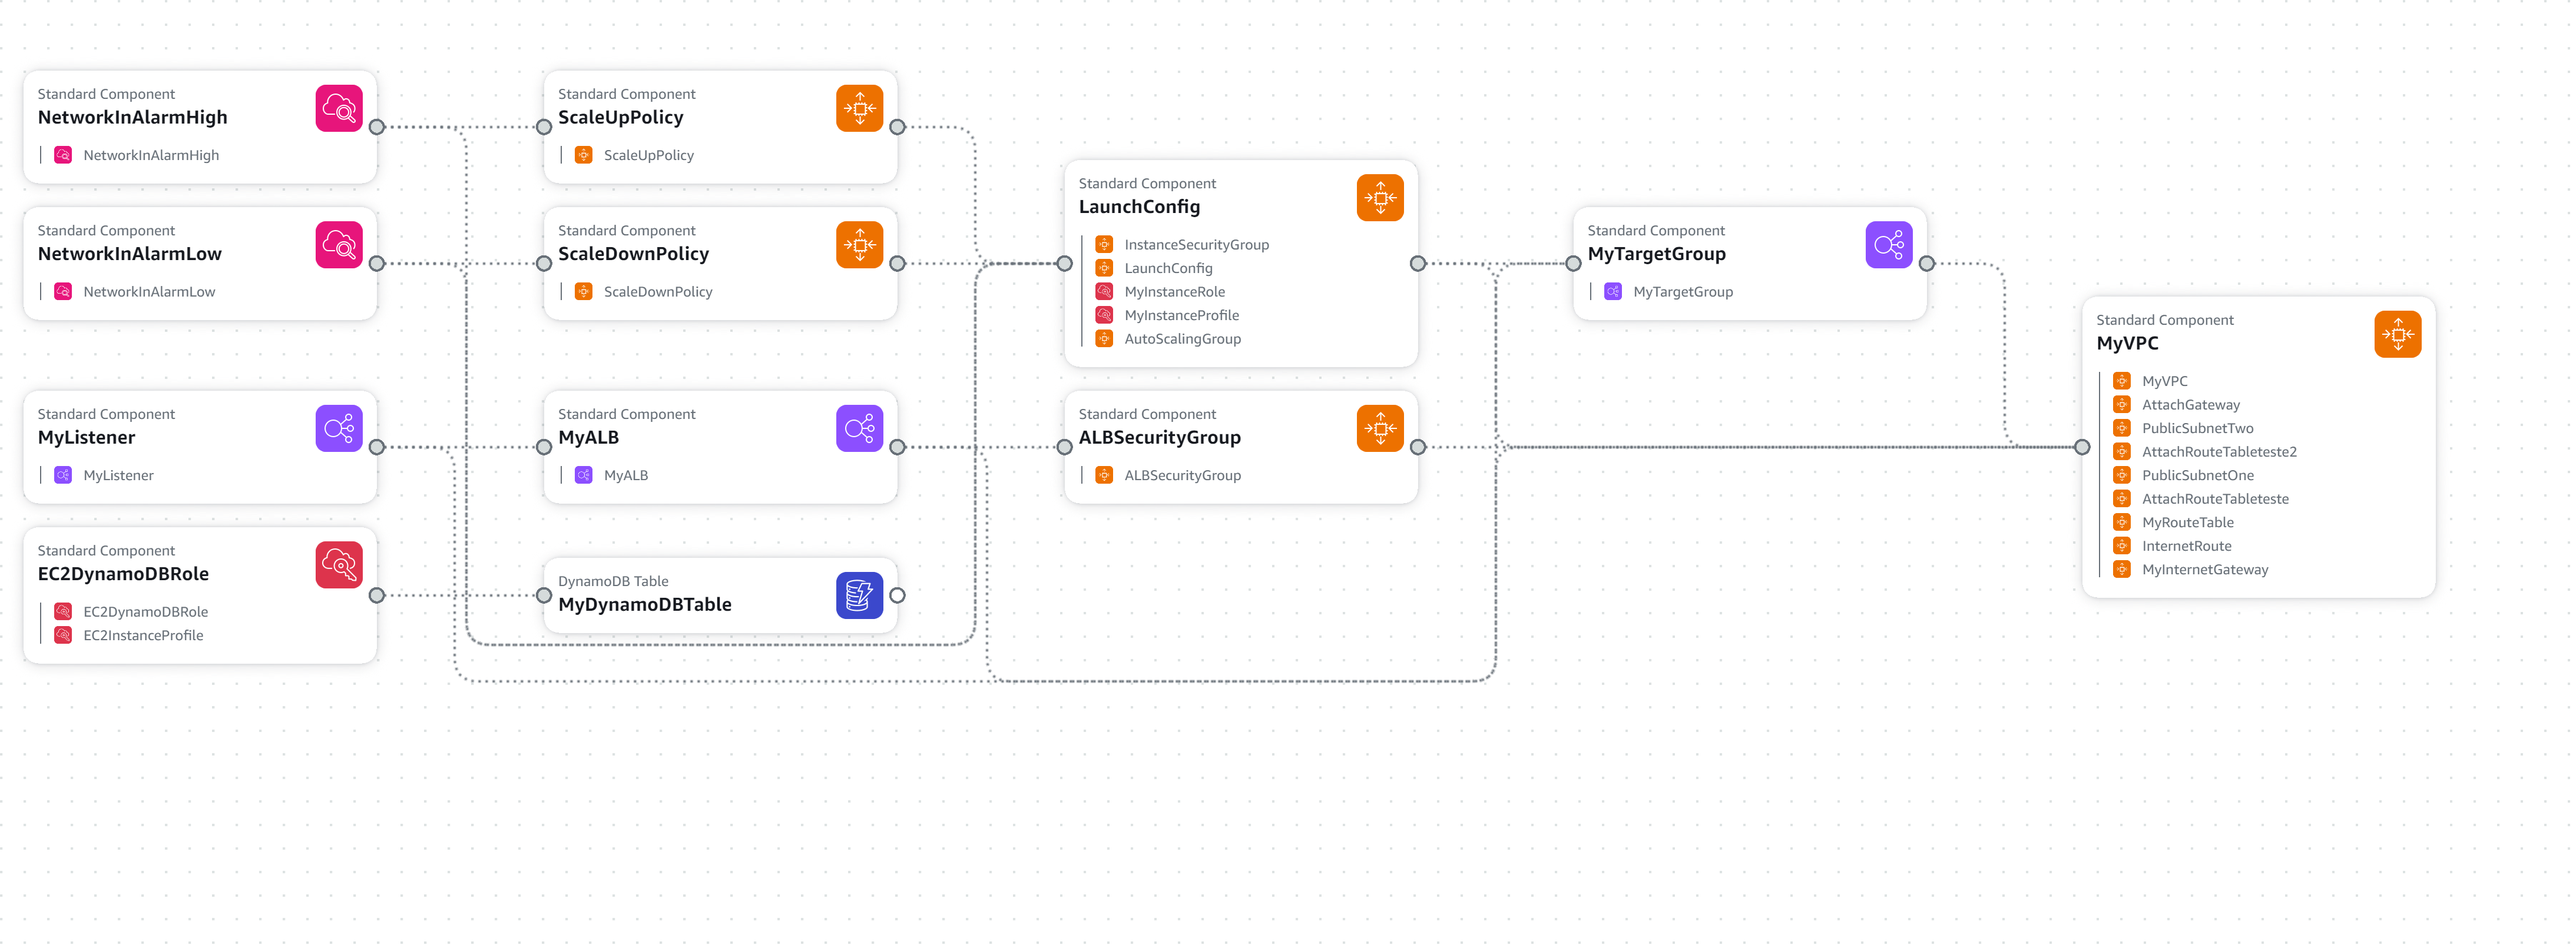
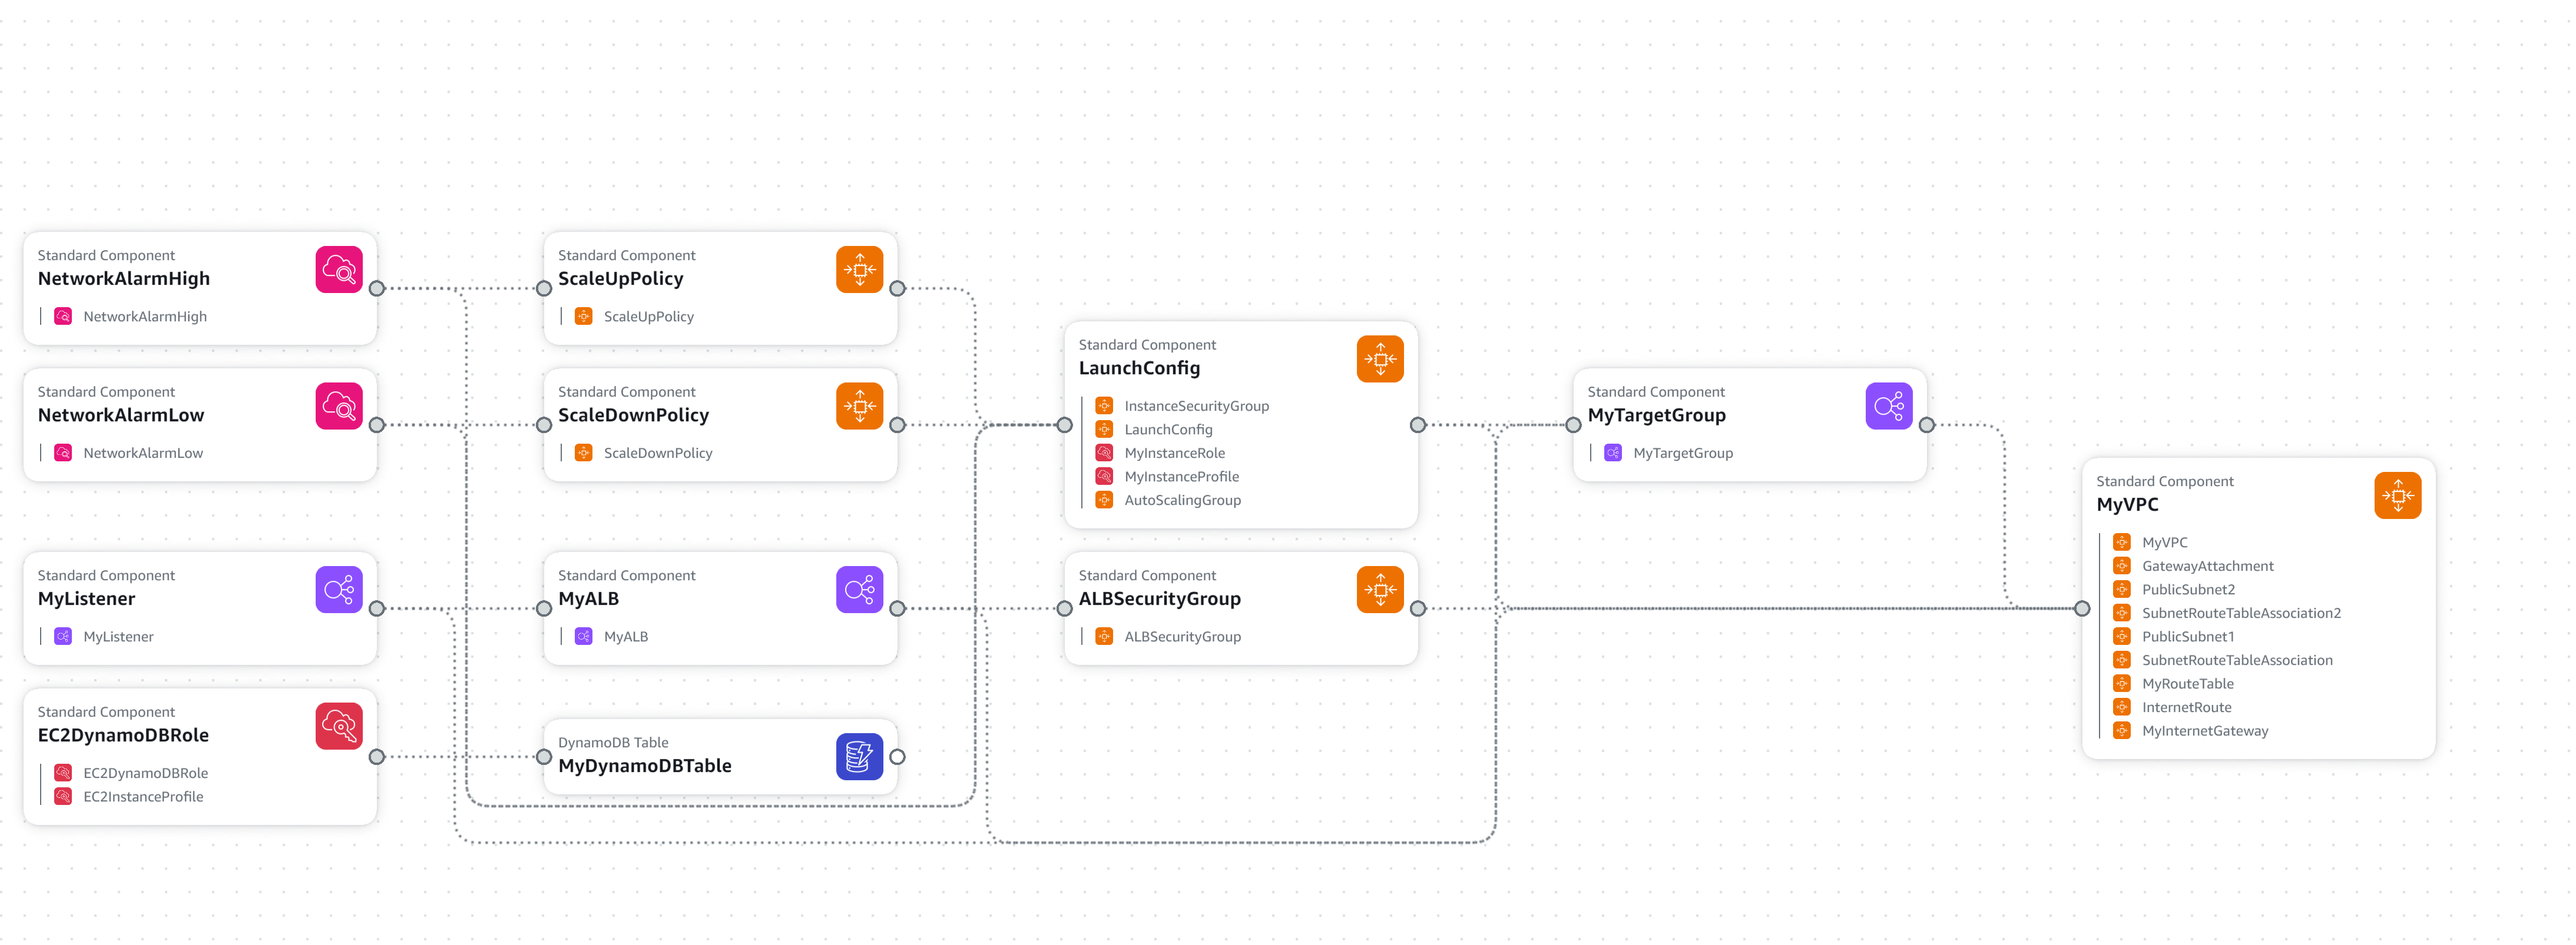
projeto C+ finalizado

diff --git a/README.md b/README.md
@@ -26,7 +26,7 @@ A arquitetura da solução é composta por 5 componentes principais:
 <p align="center"><b style="font-size: 24px;"><u>Diagrama da Arquitetura AWS</u></b></p>
 <p align="center">
   <img src="imgs\application-composer-template.yaml.png" alt="Topologia"/>
-  <p align="center"><style="font-size: 14px;">Algumas imagens foram retiradas do site da AWS (Fonte: https://aws.amazon.com/pt/elasticloadbalancing/ )</p>
+  <p align="center"><style="font-size: 14px;">Diagrama feito com uma das ferramentas disponibilizadas pela AWS(https://sa-east-1.console.aws.amazon.com/composer/canvas?mode=new&region=sa-east-1)</p>
 </p>
 
 
@@ -70,40 +70,105 @@ Após a instalação do AWS CLI, configure-o com as credenciais de acesso da sua
 aws configure
 ```
 
-Para executar o projeto, também é necessário criar um par de chaves SSH. Acesse o console da AWS, vá para o serviço EC2, clique em "Key Pairs" no menu lateral esquerdo e crie um novo par de chaves. O arquivo .pem gerado deve ser salvo na pasta raiz do projeto. O nome do par de chaves no arquivo .yaml é "MyKeyPair". Caso queira usar outro nome, altere-o no arquivo .yaml.
-
-![Alt text](imgs\key_pair.jpg)
-
 ## Execução do Projeto
 
-Com tudo configurado, acesse o serviço de CloudFormation da AWS e crie um novo stack. Selecione o arquivo .yaml presente na pasta raiz do projeto e siga as instruções para criar o stack.
+Com tudo configurado, acesse o serviço de CloudFormation da AWS e crie um novo stack. Selecione o arquivo .yaml presente na pasta raiz do projeto e siga as instruções para utilizar o template de criação da arquitetura.
+
+### Criação do Stack
 
 ```bash
-aws cloudformation create-stack --stack-name nome_da_stack --template-body file://projeto_aws.yaml --capabilities CAPABILITY_IAM
+chmod +x run.sh
+./run.sh
 ```
+Com esses 2 comandos é possível deixar o script executável, e executar o script que cria a stack.
+
+Após alguns minutos a stack estará criada e será possível acessar a aplicação através do link que será gerado no output da stack.
+
+### Atualização da Aplicação
 
 ```bash
-aws cloudformation delete-stack --stack-name nome_da_stack
+chmod +x atualizar.sh
+./atualizar.sh
+```
+Esse comando atualiza a aplicação, caso seja necessário. Para usar esse comando é necessário que a stack já tenha sido criada. 
+
+O comando também só funcionará se houver mudanças no .yaml, caso contrário, não haverá atualização.
+
+### Exclusão da Stack
+
+```bash
+chmod +x end.sh
+./end.sh
+```
+Esse comando exclui a stack criada. Para usar esse comando é necessário que a stack já tenha sido criada.
+
+### Obtenção do DNS do ALB
+
+```bash
+chmod +x dns_finder.sh
+./dns_finder.sh
+```
+Esse comando retorna o DNS do ALB. Para usar esse comando é necessário que a stack já tenha sido criada.
+
+### Teste da Aplicação
+
+Para testar a aplicação, você pode usar o comando curl para enviar requisições HTTP para a API RESTful. Abaixo estão alguns exemplos de comandos curl para testar as funcionalidades CRUD da aplicação:
+
+1. **Já existe um script que faz todos os testes de forma automatica**
+
+```bash
+python3 aplicacao_aplicada.py
+```
+Esse comando executa um script que faz os testes de CRUD na aplicação. Para usar esse comando é necessário que a stack já tenha sido criada.
+
+2. **Criar um novo item**:
+
+```bash
+curl -X POST -H "Content-Type: application/json" -d '{"id": "1", "name": "Matheus"}' <ALB-DNS>/add_user
 ```
 
+3. **Obter um item existente**:
 
+```bash
+curl -X GET "<ALB-DNS>/get_user?user_id=1"
+```
 
+4. **Atualizar um item existente**:
 
+```bash
+curl -X PUT <ALB-DNS>/update_user -H "Content-Type: application/json" -d '{"id": "1", "name": "Matheus Castellucci"}' 
+```
 
+5. **Excluir um item existente**:
 
+```bash
+curl -X DELETE <ALB-DNS>/delete_user?user_id=1
+```
 
+Substitua `<ALB-DNS>` pelo DNS do Application Load Balancer (ALB) gerado após a criação da stack.
 
 ## Escolha da região
 A região escolhida para a execução do projeto foi SA-east-1. A seleção foi baseada na latência e no custo dos serviços. A região SA-east-1 é a mais próxima do Brasil, proporcionando menor latência para os usuários brasileiros, além de possuir preços competitivos em relação a outras regiões.
 
-## Calculo de custos
+## Projeção de custos do projeto
 Para estimar os custos associados à arquitetura proposta, utilizamos o AWS Cost Calculator. Esta ferramenta permite modelar e comparar os custos de diferentes configurações de serviços AWS, ajudando a tomar decisões informadas sobre escalabilidade e custo-benefício.
 Os principais custos são associados ao DynamoDB e ao Elastic Load Balancer, que são os serviços mais caros da aplicação. Abaixo estão os custos estimados para a aplicação proposta:
 
-1. **DynamoDB**:
-2. **Elastic Load Balancer**:
+1. **DynamoDB**:DynamoDB: $26,39 por/mês (1 table with 1GB of storage)
+2. **Elastic Load Balancer**: Elastic Load Balancer: $16,44 per/month (1 Application Load Balancer)
 
-**Obs**: Para reduzir custos, consideramos possíveis melhorias como a utilização de instâncias reservadas ou instâncias spot, que são mais econômicas do que as instâncias sob demanda, além da substituição do DynamoDB por um banco de dados RDS, que é mais barato.
+Para mais informações sobre os custos dos serviços AWS, consulte o arquivo : [Estimativa de Custos AWS](https://github.com/MatheusCastellucci/App-Cloud/blob/main/imgs/My%20Estimate%20-%20Calculadora%20de%20Pre%C3%A7os%20da%20AWS.pdf)
+
+## Calculo real dos custos
+Como não temos permissão para acessar a aba de `Tags de Alocação de custos`, podemos utilizar a aba de `Billing & Cost Management` para verificar um sumário dos custos do projeto.
+
+<p align="center"><b style="font-size: 24px;"><u>Custos do Projeto</u></b></p>
+<p align="center">
+  <img src="imgs\custos.jpg" alt="Topologia"/>
+  <p align="center"><style="font-size: 14px;">Foto tirada em  23/05/2024</p>
+</p>  
+
+Os valores apresentados na imagem acima são referentes ao período de 1 mês de execução do projeto. Claro que isto não apresenta o custo real do projeto, pois o mesmo foi executado por apenas alguns dias e o valor apresentado é referente a um mês de execução. Vale mencionar também que o valor apresentado não leva em consideração o porte que a aplicação precisaria ter para atender a demanda de usuários.
 
 ## Referências
 As principais referências utilizadas foram:
